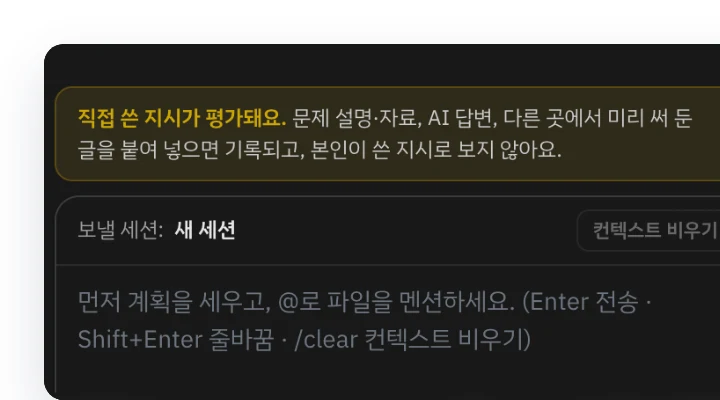
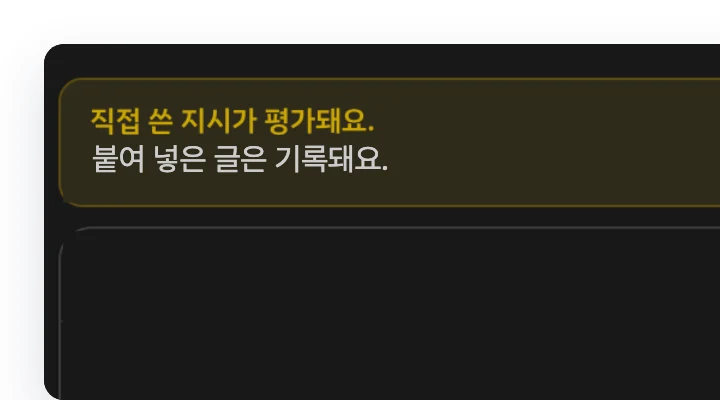
AI 역량검사: 문제 섹션 체크 박스가 차례로 올라오게, 히어로 높이·차별점 띠 정리, 보안·응시 환경 다듬기
- 문제 섹션: 처음엔 01~03 문제 카드만(화살표·체크 박스 삭제), 흰 체크 박스가
  01→02→03 차례로 아래에서 올라와 같은 자리의 문제 카드를 덮고, 셋 다 덮인 뒤
  차례로 내려간다(10초 주기, 0.9초 간격, 화면에 들어올 때마다 처음부터).
  움직임 줄이기 설정이면 체크 박스를 문제 카드 아래에 그대로 보여 준다
- 히어로: 차별점 띠 삭제("복잡하다"), 위아래 여백을 줄여 높이를 살짝 낮춤
  (두 제품 페이지 공용 — AI 역량검사 670→606px, AI 면접 670→611px @1440)
- 보안 목록: 위아래 라인 없이 사이 구분선만
- 응시 환경 이미지: 포인트만 — 붙여넣기 카드는 노란 제목 + 한 줄, 입력창은 비움 /
  전체 화면 공유 카드는 'REC · 화면 녹화 중'만 남기고 나머지는 뼈대로

diff --git a/app/landing.css b/app/landing.css
@@ -59,7 +59,7 @@
 
   /* 제품 상세 페이지 히어로(ProductHero, 2026-11-25) — 홈의 어두운 히어로와 다르게 밝은 바탕 + 오른쪽 제품 이미지.
      헤더(65px) 밑까지 바탕이 이어지도록 끌어올리고 그만큼 위 여백을 더한다. 이미지는 투명 바탕 webp(제품 화면 + 리포트 카드). */
-  .phero{position:relative;overflow:hidden;margin-top:-65px;padding:calc(65px + clamp(36px,6vw,84px)) 0 clamp(48px,6vw,88px);
+  .phero{position:relative;overflow:hidden;margin-top:-65px;padding:calc(65px + clamp(24px,4vw,56px)) 0 clamp(32px,4vw,56px); /* 11/25 "히어로 세로 길이 살짝 줄여줘": 위 84→56, 아래 88→56 */
     background:radial-gradient(55% 75% at 88% 48%,rgba(58,111,255,.13) 0%,rgba(58,111,255,0) 70%),linear-gradient(180deg,#F5F8FF 0%,#FFFFFF 100%)}
   .phero-grid{display:grid;grid-template-columns:minmax(0,.92fr) minmax(0,1.08fr);gap:clamp(24px,4vw,60px);align-items:center;max-width:1240px}
   .phero-name{display:inline-flex;align-items:center;gap:8px;font-size:14px;font-weight:700;letter-spacing:.02em;color:var(--blue-d);background:var(--soft-2);padding:7px 15px;border-radius:999px;margin-bottom:20px}
@@ -69,15 +69,6 @@
   .phero-cta{display:flex;align-items:center;gap:22px;flex-wrap:wrap;margin-top:34px}
   .phero-link{display:inline-flex;align-items:center;gap:8px;font-weight:700;font-size:15px;color:var(--blue-d)}
   .phero-link:hover{color:var(--ink)}
-  /* 히어로 아래 차별점 띠(2026-11-25, ProductHero의 points): 그리드 두 칸을 가로지르는 흰 띠, 세 칸을 선으로 나눔 */
-  .phero-points{grid-column:1/-1;list-style:none;margin:clamp(4px,1.5vw,16px) 0 0;padding:0;display:grid;grid-template-columns:repeat(3,minmax(0,1fr));background:#fff;border:1px solid var(--line);border-radius:var(--r);box-shadow:var(--shadow)}
-  .phero-points li{display:grid;gap:6px;align-content:start;padding:20px 24px;border-left:1px solid var(--line)}
-  .phero-points li:first-child{border-left:0}
-  .phero-points b{display:flex;align-items:center;gap:9px;font-size:16.5px;letter-spacing:-.01em;color:var(--ink)}
-  .phero-points b i{width:20px;height:20px;border-radius:50%;background:var(--blue);position:relative;flex:none}
-  .phero-points b i::after{content:"";position:absolute;left:7px;top:4px;width:4.5px;height:9px;border:solid #fff;border-width:0 2px 2px 0;transform:rotate(45deg)}
-  .phero-points span{font-size:14.5px;line-height:1.55;color:var(--slate)}
-  @media(max-width:880px){.phero-points{grid-template-columns:minmax(0,1fr)}.phero-points li{border-left:0;border-top:1px solid var(--line)}.phero-points li:first-child{border-top:0}}
   .phero-media img{display:block;width:100%;height:auto}
   /* 히어로 레이어 모션(2026-11-25, AI 역량검사 — ProductHero의 layers·lines): 바탕 위에 같은 크기 투명 레이어를 겹치고,
      AI 어시스턴트 카드는 위→아래, 보고서 카드는 아래→위, 칩은 왼쪽→오른쪽으로 화면 쪽에 모였다 돌아온다. 점선은 화면 쪽으로 흐른다 */
@@ -581,41 +572,32 @@
   .band{background:#fff}
   .band.soft{background:var(--soft)}
   /* 문제 섹션(어두운 띠) — 2026-11-25 AI 역량검사 02(C안). 배경은 남색→블랙 세로 그라데이션(히어로·CTA의 남색 빛과 구분).
-     위는 어두운 문제 카드, 화살표 아래 흰 해결 카드 — 세 쌍을 1:1로 잇는다. subgrid로 세 칸의 화살표·해결 카드 높이를 맞춘다 */
+     처음엔 어두운 문제 카드 01~03만 보이고, 흰 체크 박스가 같은 자리에 겹쳐 올라와 덮는다(11/25, 화살표 삭제) */
   .band.dark{color:#fff;background:linear-gradient(180deg,#13214A 0%,#0A1129 45%,#030509 100%)}
   .band.dark .head{text-align:center;max-width:760px;margin:0 auto}
   .band.dark .head h2{color:#fff}
-  .pair-grid{list-style:none;margin:50px 0 0;padding:0;display:grid;grid-template-columns:repeat(3,minmax(0,1fr));grid-template-rows:auto auto auto;column-gap:18px}
-  .pair{display:grid;grid-row:span 3;grid-template-rows:subgrid;row-gap:12px;min-width:0}
+  .pair-grid{list-style:none;margin:50px 0 0;padding:0;display:grid;grid-template-columns:repeat(3,minmax(0,1fr));gap:18px}
+  .pair{position:relative;display:grid;min-width:0}
   .pair-prob{border-radius:var(--r);background:rgba(255,255,255,.05);border:1px solid rgba(255,255,255,.12);padding:22px 24px 24px}
   .pair-prob .n{display:block;font-size:13px;font-weight:700;letter-spacing:.04em;color:rgba(255,255,255,.5);margin-bottom:10px}
   .pair-prob p{display:flex;gap:10px;margin:0;font-size:17px;line-height:1.5;color:rgba(255,255,255,.92)}
   .pair-prob p::before{content:"";width:6px;height:6px;margin-top:.66em;border-radius:50%;background:currentColor;flex:none}
-  .pair-arrow{justify-self:center;width:2px;height:24px;background:linear-gradient(var(--blue-2),var(--blue));position:relative}
-  .pair-arrow::after{content:"";position:absolute;left:50%;bottom:-1px;width:9px;height:9px;border:solid var(--blue);border-width:0 2px 2px 0;transform:translateX(-50%) rotate(45deg)}
-  .pair-sol{display:flex;margin:0;color:var(--ink);padding:18px 22px;font-size:16px;font-weight:600;line-height:1.5}
+  /* 흰 체크 박스는 문제 카드 위에 겹쳐 두고(같은 크기, 글은 가운데) 처음엔 숨긴다 — "처음에는 01~03만"(11/25) */
+  .pair-sol{position:absolute;inset:0;margin:0;display:flex;align-items:center;justify-content:center;padding:18px 22px;border-radius:var(--r);background:#fff;color:var(--ink);font-size:16px;font-weight:600;line-height:1.5;opacity:0;transform:translateY(56px);pointer-events:none}
   .pair-sol-in{display:inline-flex;gap:10px;align-items:flex-start}
-  .pair-sol::before{content:"";position:absolute;left:0;right:0;top:0;height:100%;z-index:-1;border-radius:var(--r);background:#fff}
   .pair-ck{width:20px;height:20px;margin-top:.1em;border-radius:50%;background:var(--blue);position:relative;flex:none}
   .pair-ck::after{content:"";position:absolute;left:7px;top:4px;width:4.5px;height:9px;border:solid #fff;border-width:0 2px 2px 0;transform:rotate(45deg)}
-  @media(max-width:760px){.pair-grid{grid-template-columns:1fr;grid-template-rows:none;row-gap:26px;margin-top:36px}.pair{grid-row:auto;grid-template-rows:none}.pair-prob p{font-size:16px}.pair-sol{font-size:15px}}
-  /* 모션(11/25): 흰 해결 카드가 바로 위 문제 카드 자리로 올라가면서 문제 카드와 같은 높이로 늘어나 덮고, 올라간 뒤 화살표는 사라진다.
-     다 덮은 순간 체크와 문구는 박스 가운데로 내려온다. 잠시 뒤 거꾸로 돌아온다 — 01→02→03 반 박자씩, 5.4초 주기. 흰 바탕은 ::before 층이라 늘어나도 주변 배치가 출렁이지 않는다.
-     거리 --d·높이 --h는 PairGrid(components/PairGrid.tsx)가 잰다. 화면에 보일 때만(.moving) 움직이고, 움직임 줄이기 설정이면 멈춘다 */
-  .pair-sol{position:relative;z-index:1}
-  .pair-grid.moving .pair-sol{animation:pairCover 5.4s cubic-bezier(.4,0,.2,1) infinite}
-  .pair-grid.moving .pair-sol::before{animation:pairGrow 5.4s cubic-bezier(.4,0,.2,1) infinite}
-  .pair-grid.moving .pair-arrow{animation:pairArrow 5.4s ease-in-out infinite}
-  .pair-grid.moving .pair-prob{animation:pairDim 5.4s ease-in-out infinite}
-  .pair-grid.moving .pair-sol-in{animation:pairCenter 5.4s cubic-bezier(.4,0,.2,1) infinite}
-  .pair-grid.moving .pair:nth-child(2) .pair-sol,.pair-grid.moving .pair:nth-child(2) .pair-sol::before,.pair-grid.moving .pair:nth-child(2) .pair-arrow,.pair-grid.moving .pair:nth-child(2) .pair-prob,.pair-grid.moving .pair:nth-child(2) .pair-sol-in{animation-delay:.5s}
-  .pair-grid.moving .pair:nth-child(3) .pair-sol,.pair-grid.moving .pair:nth-child(3) .pair-sol::before,.pair-grid.moving .pair:nth-child(3) .pair-arrow,.pair-grid.moving .pair:nth-child(3) .pair-prob,.pair-grid.moving .pair:nth-child(3) .pair-sol-in{animation-delay:1s}
-  @keyframes pairCover{0%,22%{transform:translateY(0)}38%,68%{transform:translateY(calc(-1 * var(--d,0px)))}84%,100%{transform:translateY(0)}}
-  @keyframes pairGrow{0%,28%{height:100%;box-shadow:0 0 0 0 rgba(51,106,255,0)}42%,64%{height:var(--h,100%);box-shadow:0 18px 40px -12px rgba(51,106,255,.9)}78%,100%{height:100%;box-shadow:0 0 0 0 rgba(51,106,255,0)}}
-  @keyframes pairArrow{0%,30%{opacity:1}40%,70%{opacity:0}84%,100%{opacity:1}}
-  @keyframes pairCenter{0%,28%{transform:translate(0,0)}42%,64%{transform:translate(var(--tx,0px),var(--ty,0px))}78%,100%{transform:translate(0,0)}}
-  @keyframes pairDim{0%,26%{opacity:1}40%,64%{opacity:0}80%,100%{opacity:1}}
-  @media(prefers-reduced-motion:reduce){.pair-grid.moving .pair-sol,.pair-grid.moving .pair-sol::before,.pair-grid.moving .pair-sol-in,.pair-grid.moving .pair-arrow,.pair-grid.moving .pair-prob{animation:none}}
+  @media(max-width:760px){.pair-grid{grid-template-columns:minmax(0,1fr);gap:14px;margin-top:36px}.pair-prob p{font-size:16px}.pair-sol{font-size:15px}}
+  /* 모션(11/25): 체크 박스가 01→02→03 차례로 아래에서 올라와 문제 카드를 덮고, 셋 다 덮인 뒤 차례로 내려간다(10초 주기, 0.9초 간격).
+     화면에 보일 때만(.moving, PairGrid) 움직이고 들어올 때마다 처음(문제 카드만)부터 다시 시작한다 */
+  .pair-grid.moving .pair-sol{animation:pairRise 10s cubic-bezier(.4,0,.2,1) infinite}
+  .pair-grid.moving .pair-prob{animation:pairDim 10s ease-in-out infinite}
+  .pair-grid.moving .pair:nth-child(2) .pair-sol,.pair-grid.moving .pair:nth-child(2) .pair-prob{animation-delay:.9s}
+  .pair-grid.moving .pair:nth-child(3) .pair-sol,.pair-grid.moving .pair:nth-child(3) .pair-prob{animation-delay:1.8s}
+  @keyframes pairRise{0%,16%{opacity:0;transform:translateY(56px);box-shadow:0 0 0 0 rgba(51,106,255,0)}24%,70%{opacity:1;transform:translateY(0);box-shadow:0 18px 40px -12px rgba(51,106,255,.9)}78%,100%{opacity:0;transform:translateY(56px);box-shadow:0 0 0 0 rgba(51,106,255,0)}}
+  @keyframes pairDim{0%,18%{opacity:1}24%,70%{opacity:0}76%,100%{opacity:1}}
+  /* 움직임 줄이기 설정: 체크 박스를 문제 카드 아래에 그대로 보여 준다 */
+  @media(prefers-reduced-motion:reduce){.pair{gap:12px}.pair-sol{position:static;opacity:1;transform:none;justify-content:flex-start}.pair-grid.moving .pair-sol,.pair-grid.moving .pair-prob{animation:none}}
   .band .head{text-align:center;max-width:760px;margin:0 auto}
   .band .soft-cta{margin-top:0}
 
@@ -647,8 +629,10 @@
   .sec-split{display:grid;grid-template-columns:minmax(0,.95fr) minmax(0,1.05fr);gap:clamp(28px,5vw,72px);align-items:center}
   .sec-split .head{text-align:left;max-width:none;margin:0}
   .sec-split .sec-marks{display:grid;grid-template-columns:repeat(2,max-content);justify-content:start;gap:12px 16px;margin-top:30px}
-  .sec-list{list-style:none;margin:0;padding:0;border-top:1px solid var(--line)}
+  .sec-list{list-style:none;margin:0;padding:0}
   .sec-list li{display:flex;gap:18px;padding:24px 4px;border-bottom:1px solid var(--line)}
+  .sec-list li:first-child{padding-top:0}
+  .sec-list li:last-child{border-bottom:0;padding-bottom:0} /* 위아래 라인 없이 사이 구분선만(11/25) */
   .sec-list .ic{width:46px;height:46px;border-radius:12px;background:var(--soft-2);color:var(--blue);display:grid;place-items:center;font-size:20px;flex:none}
   .sec-list h3{margin:0;font-size:19px;letter-spacing:-.02em;color:var(--ink)}
   .sec-list p{margin:6px 0 0;font-size:15px;line-height:1.6;color:var(--slate)}

diff --git a/components/PairGrid.tsx b/components/PairGrid.tsx
@@ -3,10 +3,9 @@
 import { useEffect, useRef } from "react";
 
 // 문제 → 해결 세 쌍(.pair-grid) — AI 역량검사 02 문제 섹션(2026-11-25 C안). 스타일·모션은 app/landing.css(.pair-grid).
-// 모션: 흰 해결 카드가 바로 위 문제 카드 자리로 올라가면서 문제 카드와 같은 높이로 늘어나 덮고, 화살표는 사라졌다가
-// 돌아온다(01→02→03 반 박자씩). 다 덮은 순간에는 체크와 문구가 박스 가운데로 내려온다(11/25).
-// 올라갈 거리(--d), 늘어날 높이(--h = 문제 카드 높이), 가운데로 옮길 거리(--tx·--ty)는 화면 폭에 따라 글 줄 수가 달라져 여기서 잰다. 화면에 보일 때만(.moving) 움직이고,
-// 움직임 줄이기 설정이면 CSS가 멈춘다. 스크립트가 없어도 카드는 제자리에 그대로 보인다.
+// 처음엔 01~03 문제 카드만 보이고(화살표 없음), 흰 체크 박스가 01→02→03 차례로 아래에서 올라와 같은 자리의 문제 카드를 덮는다.
+// 셋 다 덮인 뒤 차례로 내려가고 다시 반복. 화면에 보일 때만(.moving) 움직이고, 들어올 때마다 처음부터 시작한다.
+// 움직임 줄이기 설정이면 CSS가 체크 박스를 문제 카드 아래에 그대로 보여 준다.
 export type Pair = { problem: string; solution: string };
 
 export default function PairGrid({ pairs }: { pairs: Pair[] }) {
@@ -15,26 +14,9 @@ export default function PairGrid({ pairs }: { pairs: Pair[] }) {
   useEffect(() => {
     const ol = ref.current;
     if (!ol) return;
-    const measure = () => {
-      ol.querySelectorAll<HTMLLIElement>(".pair").forEach((li) => {
-        const prob = li.querySelector<HTMLElement>(".pair-prob");
-        const sol = li.querySelector<HTMLElement>(".pair-sol");
-        if (!prob || !sol) return;
-        li.style.setProperty("--d", `${sol.offsetTop - prob.offsetTop}px`);
-        li.style.setProperty("--h", `${prob.offsetHeight}px`);
-        const inner = sol.querySelector<HTMLElement>(".pair-sol-in");
-        if (!inner) return;
-        const cs = getComputedStyle(sol);
-        li.style.setProperty("--tx", `${(sol.clientWidth - inner.offsetWidth) / 2 - parseFloat(cs.paddingLeft)}px`);
-        li.style.setProperty("--ty", `${(prob.offsetHeight - inner.offsetHeight) / 2 - parseFloat(cs.paddingTop)}px`);
-      });
-    };
-    measure();
-    const ro = new ResizeObserver(measure);
-    ro.observe(ol);
     const io = new IntersectionObserver(([e]) => ol.classList.toggle("moving", e.isIntersecting), { threshold: 0.3 });
     io.observe(ol);
-    return () => { ro.disconnect(); io.disconnect(); };
+    return () => io.disconnect();
   }, []);
 
   return (
@@ -42,7 +24,6 @@ export default function PairGrid({ pairs }: { pairs: Pair[] }) {
       {pairs.map((p, i) => (
         <li className="pair" key={p.problem}>
           <div className="pair-prob"><span className="n">{String(i + 1).padStart(2, "0")}</span><p>{p.problem}</p></div>
-          <span className="pair-arrow" aria-hidden="true"></span>
           <p className="pair-sol"><span className="pair-sol-in"><span className="pair-ck" aria-hidden="true"></span>{p.solution}</span></p>
         </li>
       ))}

diff --git a/components/ProductHero.tsx b/components/ProductHero.tsx
@@ -6,8 +6,6 @@ import type { ReactNode } from "react";
 export type HeroLayer = { src: string; move?: "down" | "up" | "right" };
 // 레이어 사이 점선(viewBox 600×420 좌표) — d는 카드 → 화면 방향으로 그린다(점선이 그 방향으로 흐른다), dot은 화면 위 끝점.
 export type HeroLine = { d: string; dot: [number, number] };
-// 히어로 아래 차별점 띠(2026-11-25) — 그리드 두 칸을 가로지르는 흰 띠에 세 가지를 나란히.
-export type HeroPoint = { title: string; body: string };
 
 /**
  * 제품 상세 페이지 히어로(2026-11-25) — /ai-interview·/ai-assessment 공용. 홈은 어두운 PageHero를 그대로 쓴다.
@@ -17,7 +15,7 @@ export type HeroPoint = { title: string; body: string };
  * layers를 주면 img를 바탕으로 레이어를 겹쳐 그리고 움직인다(움직임 줄이기 설정이면 멈춤). 스타일은 app/landing.css(.phero).
  * data-nav를 두지 않는다 — 밝은 바탕이라 GNB를 반전하지 않는다.
  */
-export default function ProductHero({ name, isNew = false, title, lead, img, alt, layers, lines, points }: {
+export default function ProductHero({ name, isNew = false, title, lead, img, alt, layers, lines }: {
   name: string;
   isNew?: boolean;
   title: ReactNode;
@@ -26,7 +24,6 @@ export default function ProductHero({ name, isNew = false, title, lead, img, alt
   alt: string;
   layers?: HeroLayer[];
   lines?: HeroLine[];
-  points?: HeroPoint[];
 }) {
   return (
     <section className="phero" id="hero">
@@ -62,13 +59,6 @@ export default function ProductHero({ name, isNew = false, title, lead, img, alt
             <img src={img} alt={alt} width={1200} height={840} fetchPriority="high" />
           )}
         </div>
-        {points && (
-          <ul className="phero-points" aria-label={`${name}의 차별점`}>
-            {points.map((p) => (
-              <li key={p.title}><b><i aria-hidden="true"></i>{p.title}</b><span>{p.body}</span></li>
-            ))}
-          </ul>
-        )}
       </div>
     </section>
   );

diff --git a/app/ai-assessment/page.tsx b/app/ai-assessment/page.tsx
@@ -40,8 +40,7 @@ const START = [
   { title: "확인 후 게시", body: <>채용팀이 확인하고 게시하면<br />지원자에게 링크를 보냅니다.</>, img: "/assessment-step-review.webp", alt: "평가 기준 화면: 역량별 1점부터 단계별 기준 문장" },
 ];
 
-// 02 · 문제 — 어두운 띠(C안, 11/25): 위는 어두운 문제 카드, 화살표 아래 흰 해결 카드. 세 쌍을 1:1로 잇는다.
-// 모션: 흰 해결 카드가 위 문제 카드 자리로 올라가 덮었다 돌아온다(components/PairGrid.tsx).
+// 02 · 문제 — 어두운 띠(C안, 11/25): 처음엔 문제 카드 01~03만, 흰 체크 박스가 01부터 차례로 올라와 덮는다(components/PairGrid.tsx).
 // 이미지 없이 글로만 가는 섹션이라 말을 정확히 — 그대로 냈는지 ↔ 맡긴 내용 기록, 검증했는지 ↔ 검증 평가, 이해하는지 ↔ AI 인터뷰.
 // 아래 '진행 방식'이 자세히 보여 주므로 여기서는 한 줄씩만 쓴다.
 const PAIRS = [
@@ -128,12 +127,6 @@ export default function AiAssessmentPage() {
         lines={[
           { d: "M512 132 V196", dot: [512, 198] },
           { d: "M318 232 V200", dot: [318, 198] },
-        ]}
-        // 차별점(11/25 시안 ①, 히어로 바로 아래). 근거: _docs/홈페이지 개편/AI면접_AI역량검사_차이_소개자료.md — 다른 회사 이름·'유일한' 같은 비교는 쓰지 않는다
-        points={[
-          { title: "채용공고로 만드는 맞춤 과제", body: "공고를 넣으면 AI가 직무에 맞는 과제와 채점 기준을 만듭니다." },
-          { title: "결과물과 과정을 함께 평가", body: "AI에 맡긴 지시, 검증, 직접 수정까지 기록하고 평가합니다." },
-          { title: "제출 뒤 AI 인터뷰로 검증", body: "자기 결과를 말로 설명하게 해, 이해했는지 확인합니다." },
         ]}
       />
 

diff --git a/CLAUDE.md b/CLAUDE.md
@@ -17,7 +17,7 @@ Supercoder AI 웹사이트 — **AIVIEW** 제품 랜딩 + 블로그/도입문의
 
 - **라우트(`app/`):**
   - `app/page.tsx` — 랜딤(index). 서버 컴포넌트. 섹션 CSS는 `app/landing.css`.
-  - `app/ai-interview/`, `app/ai-assessment/` — 제품 상세 페이지(2026-11 개편, GNB '제품▾'). 서버 컴포넌트, ISR 3600. **섹션 CSS는 홈과 같은 `app/landing.css`를 import해 그대로 쓴다**(복붙 금지). 히어로는 홈과 다른 밝은 `ProductHero`(제품 이미지), 나머지는 공용 컴포넌트(`ClientLogos`·`StepFlow`·`TeamSection`·`SecuritySection`·`NextProductCard`·`FinalCta`). **제품 화면 이미지는 실제 제품 캡처를 가공해 쓴다(2026-11-25 피드백)** — 얼굴은 실루엣, 이름·메일·실제 고객사 공고·경쟁사 이름은 빼고, 응시 시간·가중치·토큰·비용 숫자는 지운다(가공 스크립트·원본 매핑은 `_docs/홈페이지 개편/도식/캡처가공/`). 응시 환경은 크기를 섞은 벤토(`.env-bento`, 큰 카드 1 + 작은 카드 2, 흰 바탕), 단계 카드는 `StepFlow`의 `img`(흰 카드, 화면 이미지에 그림자). AI 면접 흐름(2026-11-25): 히어로 → 언제 쓰나 → 도입 3단계 → 유형 → 핵심 기능(도식) → 부정행위 감지 → 지원자 응시 과정 → 채용팀 기능 → 보안 → FAQ → 다른 제품 안내 → 마지막 CTA. AI 역량검사는 "중복되고 길다"는 피드백에 프로그래머스 AI 역량평가 흐름을 참고해 10개로 줄였다(11/25): 히어로 → 문제(어두운 띠 `.band.dark` — 남색→블랙 그라데이션, 문제→해결 세 쌍 `.pair-grid` — 흰 해결 카드가 위 문제 카드로 올라가 덮는 모션은 `components/PairGrid.tsx`) → 진행 방식(③~⑥) → 과제 유형 → 과제 만들기 → 응시 환경 → 보안 → FAQ → 다른 제품 안내 → 마지막 CTA (지원자 응시 과정·채용팀 기능은 FAQ로 옮김). 배경은 흰색↔연한 블루가 번갈아. 같은 말을 두 섹션에서 반복하지 않는다. 기획은 `_docs/홈페이지 개편/`(로컬, git 미추적).
+  - `app/ai-interview/`, `app/ai-assessment/` — 제품 상세 페이지(2026-11 개편, GNB '제품▾'). 서버 컴포넌트, ISR 3600. **섹션 CSS는 홈과 같은 `app/landing.css`를 import해 그대로 쓴다**(복붙 금지). 히어로는 홈과 다른 밝은 `ProductHero`(제품 이미지), 나머지는 공용 컴포넌트(`ClientLogos`·`StepFlow`·`TeamSection`·`SecuritySection`·`NextProductCard`·`FinalCta`). **제품 화면 이미지는 실제 제품 캡처를 가공해 쓴다(2026-11-25 피드백)** — 얼굴은 실루엣, 이름·메일·실제 고객사 공고·경쟁사 이름은 빼고, 응시 시간·가중치·토큰·비용 숫자는 지운다(가공 스크립트·원본 매핑은 `_docs/홈페이지 개편/도식/캡처가공/`). 응시 환경은 크기를 섞은 벤토(`.env-bento`, 큰 카드 1 + 작은 카드 2, 흰 바탕), 단계 카드는 `StepFlow`의 `img`(흰 카드, 화면 이미지에 그림자). AI 면접 흐름(2026-11-25): 히어로 → 언제 쓰나 → 도입 3단계 → 유형 → 핵심 기능(도식) → 부정행위 감지 → 지원자 응시 과정 → 채용팀 기능 → 보안 → FAQ → 다른 제품 안내 → 마지막 CTA. AI 역량검사는 "중복되고 길다"는 피드백에 프로그래머스 AI 역량평가 흐름을 참고해 10개로 줄였다(11/25): 히어로 → 문제(어두운 띠 `.band.dark` — 남색→블랙 그라데이션, 문제→해결 세 쌍 `.pair-grid` — 처음엔 문제 카드만, 흰 체크 박스가 01부터 차례로 올라와 덮는 모션은 `components/PairGrid.tsx`) → 진행 방식(③~⑥) → 과제 유형 → 과제 만들기 → 응시 환경 → 보안 → FAQ → 다른 제품 안내 → 마지막 CTA (지원자 응시 과정·채용팀 기능은 FAQ로 옮김). 배경은 흰색↔연한 블루가 번갈아. 같은 말을 두 섹션에서 반복하지 않는다. 기획은 `_docs/홈페이지 개편/`(로컬, git 미추적).
   - `app/apply/` — 도입 문의 폼(고관여). `page.tsx`(서버, metadata) + `ApplyForm.tsx`(클라이언트 → `/api/submit-signup` 호출; 검증·저장·알림은 서버가 한다).
   - `app/brochure/` — 서비스소개서 신청(저관여 리드). `page.tsx`(서버) + `BrochureForm.tsx`(클라이언트 → `/api/send-brochure` 호출) + `BrochurePreview.tsx`. 두 폼의 공통 검증은 `lib/leadForm.ts`(개인 메일·**대학 메일(ac.kr·edu·해외 ac.xx/edu.xx — `isUnivEmail`, 2026-10-30; 초중고·유치원·`go.kr`은 막지 않는다)**·국내 전화번호 형식 — 클라이언트 즉시 피드백용)와 **서버 전용** `lib/leadGuard.ts`(`validateLead` — 일회용 메일 8,792개 + 무료 메일 제공자 4,466개 대조 + 메일 도메인 DNS 확인). 대학 도메인 판정 `isUnivDomain`은 이벤트 지원 폼(`lib/eventApply.ts`)이 **허용** 조건으로 같이 쓴다 — 바꾸면 양쪽이 함께 바뀐다. ⚠ 공개 목록엔 **국내 제공자(daum.net·kakao.com·nate.com)가 빠져 있어** 국내분은 `leadForm.ts`가 직접 관리한다 — 둘 다 필요하다. 갱신은 `node scripts/sync-email-blocklists.mjs`.
   - `app/blog/` — 블로그 목록. `page.tsx`(서버, Supabase에서 published 글 SSR) + `BlogClient.tsx`(클라이언트, 카테고리 필터).
@@ -26,7 +26,7 @@ Supercoder AI 웹사이트 — **AIVIEW** 제품 랜딩 + 블로그/도입문의
   - `app/privacy`, `app/terms`, `app/terms-applicant` — 법적 페이지(서버). `app/not-found.tsx` — 404.
 - **공유 디자인 토큰·컴포넌트 CSS는 `app/globals.css` (SSOT).** `:root` 변수(`--blue`,`--ink`,`--soft`,`--r`,`--shadow` 등)·버튼(`.btn*`)·`.eyebrow`·GNB(`header`/`nav`)·푸터(`footer`)·모달(`.bro-*`)·챗봇(`.cbot*`)·법적 페이지(`.legal`)가 모두 여기. 루트 `layout.tsx`에서 1회 import. **공유 컴포넌트를 바꿀 땐 `app/globals.css`만 고치면 전 페이지가 함께 바뀐다.**
 - **페이지 고유 CSS는 라우트 폴더에 co-located** (`app/landing.css`, `app/apply/apply.css`, `app/blog/blog.css`, `app/blog/[id]/post.css`, `app/admin/admin.css`). 해당 page에서 import. 클래스는 전역 스코프(원본 정적 사이트와 동일 동작).
-- **공유 컴포넌트(`components/`):** `SiteHeader`(섹션 인지형 GNB·메뉴. '제품▾' 펼침 메뉴 항목은 `PRODUCTS` 배열 하나를 데스크톱·모바일이 함께 쓴다), `SiteFooter`, `Chatbot`(FAQ 챗봇), `HeroParticles`(canvas 입자 모션, 히어로·CTA 공용), `Analytics`·`UtmCapture`·`ViewCounter`. 모두 `layout.tsx`에 마운트되거나 page에서 사용. `"use client"`. 홈·제품 페이지가 같이 쓰는 섹션은 서버 컴포넌트 `PageHero`(홈 전용 다크 히어로, 강조어는 `HeroWord`)·`ProductHero`(제품 상세 페이지 히어로 — 밝은 바탕 + 오른쪽 제품 이미지 `public/hero-*.webp`. AI 면접은 그림 `_docs/홈페이지 개편/도식/히어로_만들기_make-hero.mjs`, AI 역량검사는 실제 응시 화면 캡처를 가공한 것 `_docs/홈페이지 개편/도식/캡처가공/make.mjs`. `layers`·`lines`를 주면 바탕 위에 투명 레이어를 겹쳐 레이어마다 움직인다 — AI 역량검사는 화면·AI 어시스턴트·보고서·칩 레이어 `public/hero-assessment-*.webp`. `points`를 주면 히어로 아래에 차별점 띠 `.phero-points`)·`StepFlow`(3단계 카드 줄, 단계마다 `img`를 주면 카드 아래에 실제 화면을 꽉 차게 붙인다 — `.pstep.has-shot`)·`TeamSection`(채용팀 기능, 두 제품 공용)·`ClientLogos`(도입사 로고 마퀴)·`ReportRows`(리포트 4종)·`IntegritySection`(부정행위 감지, 홈은 `withLink`)·`SecuritySection`(좌우 분할 — 왼쪽 제목·ISO 인증 마크, 오른쪽 보안 항목 목록)·`FaqList`(FAQ 목록)·`SoftCta`(중간 안내 한 줄+버튼 — 홈 서비스소개서 안내)·`NextProductCard`(제품 페이지 끝 다른 제품 안내, 상대 제품 도식 썸네일 카드)·`FinalCta`(마지막 CTA) — 스타일은 `app/landing.css`. 제품 이름·주소·한 줄 설명·도식 썸네일은 `lib/products.ts`(GNB·푸터·홈 카드·NextProductCard 공용), ISO 인증 목록은 `lib/certs.ts`(푸터·보안 섹션 공용). 제품 문구의 사실 근거·금지 표현은 `_docs/홈페이지 개편/AI면접_AI역량검사_차이_소개자료.md`. ⚠ `CostCalculator.tsx`는 **어디에도 마운트돼 있지 않다**(미사용). 소개서 리드는 옛 `BrochureModal`이 아니라 `app/brochure/` 라우트가 담당한다.
+- **공유 컴포넌트(`components/`):** `SiteHeader`(섹션 인지형 GNB·메뉴. '제품▾' 펼침 메뉴 항목은 `PRODUCTS` 배열 하나를 데스크톱·모바일이 함께 쓴다), `SiteFooter`, `Chatbot`(FAQ 챗봇), `HeroParticles`(canvas 입자 모션, 히어로·CTA 공용), `Analytics`·`UtmCapture`·`ViewCounter`. 모두 `layout.tsx`에 마운트되거나 page에서 사용. `"use client"`. 홈·제품 페이지가 같이 쓰는 섹션은 서버 컴포넌트 `PageHero`(홈 전용 다크 히어로, 강조어는 `HeroWord`)·`ProductHero`(제품 상세 페이지 히어로 — 밝은 바탕 + 오른쪽 제품 이미지 `public/hero-*.webp`. AI 면접은 그림 `_docs/홈페이지 개편/도식/히어로_만들기_make-hero.mjs`, AI 역량검사는 실제 응시 화면 캡처를 가공한 것 `_docs/홈페이지 개편/도식/캡처가공/make.mjs`. `layers`·`lines`를 주면 바탕 위에 투명 레이어를 겹쳐 레이어마다 움직인다 — AI 역량검사는 화면·AI 어시스턴트·보고서·칩 레이어 `public/hero-assessment-*.webp`.)·`StepFlow`(3단계 카드 줄, 단계마다 `img`를 주면 카드 아래에 실제 화면을 꽉 차게 붙인다 — `.pstep.has-shot`)·`TeamSection`(채용팀 기능, 두 제품 공용)·`ClientLogos`(도입사 로고 마퀴)·`ReportRows`(리포트 4종)·`IntegritySection`(부정행위 감지, 홈은 `withLink`)·`SecuritySection`(좌우 분할 — 왼쪽 제목·ISO 인증 마크, 오른쪽 보안 항목 목록)·`FaqList`(FAQ 목록)·`SoftCta`(중간 안내 한 줄+버튼 — 홈 서비스소개서 안내)·`NextProductCard`(제품 페이지 끝 다른 제품 안내, 상대 제품 도식 썸네일 카드)·`FinalCta`(마지막 CTA) — 스타일은 `app/landing.css`. 제품 이름·주소·한 줄 설명·도식 썸네일은 `lib/products.ts`(GNB·푸터·홈 카드·NextProductCard 공용), ISO 인증 목록은 `lib/certs.ts`(푸터·보안 섹션 공용). 제품 문구의 사실 근거·금지 표현은 `_docs/홈페이지 개편/AI면접_AI역량검사_차이_소개자료.md`. ⚠ `CostCalculator.tsx`는 **어디에도 마운트돼 있지 않다**(미사용). 소개서 리드는 옛 `BrochureModal`이 아니라 `app/brochure/` 라우트가 담당한다.
 - **섹션 = 랜딩 구조 (정의된 이름·번호·id).** `app/page.tsx`는 번호 매겨진 섹션 스택이다. 정식 목록(2026-11 개편): 01 히어로(`#hero`), 02 도입사(`#clients`), 03 문제·FLOOD(`#flood`), 04 해결·제품 2종(`#products`, 옛 VALUE 자리), 05 역할·ROLE(`#role`, 깔때기 SVG), 06 작동 방식·리포트 4종+도입 3단계(`#how`), 07 부정행위 감지(`#integrity`), 08 보안(`#security`), 09 성과·PROOF(`#proof`), 10 후기(`#voices`), 11 FAQ(`#faq`), 12 마지막 CTA(`#final`). 배경은 흰색↔연한 블루가 번갈아 오도록 둔다(공용 섹션 틀 `.band`/`.band.soft`). GNB는 섹션 앵커를 쓰지 않는다 — 메뉴는 제품▾(`/ai-interview`·`/ai-assessment`)·블로그·서비스소개서·이벤트(2026-11-24). 부정행위 감지·보안은 메뉴가 아니라 홈·제품 페이지 본문에서 보여준다.
 - **섹션 인지형 GNB:** `[data-nav="dark"]` 섹션(히어로·FINAL) 위에선 헤더 반전(흰 로고). 색 전환 클래스(`header.nav-invert`/`.nav-solid`)는 `globals.css`(SSOT), 감지 로직은 `SiteHeader.tsx`의 `syncHeader`.
 - **폰트·아이콘은 자체 호스팅 서브셋(2026-08-10 성능 최적화):** `layout.tsx`가 `pretendard.css`(woff2 청크만 jsdelivr)와 `fontawesome.css`를 import한다. 아이콘은 `<i className="fa-...">`로 쓰되, **`app/fontawesome.css`에 정의된 아이콘만 쓸 수 있다** — `public/fonts/`의 woff2도 pyftsubset으로 잘라낸 상태라 목록에 없는 이름을 쓰면 버튼은 동작해도 글리프가 렌더되지 않는다(2026-08-21 `fa-flask` 사례). 새 아이콘이 꼭 필요하면 CSS 룰 추가 + 폰트 재서브셋이 함께 필요하다. Supabase는 `@supabase/supabase-js`(npm).
